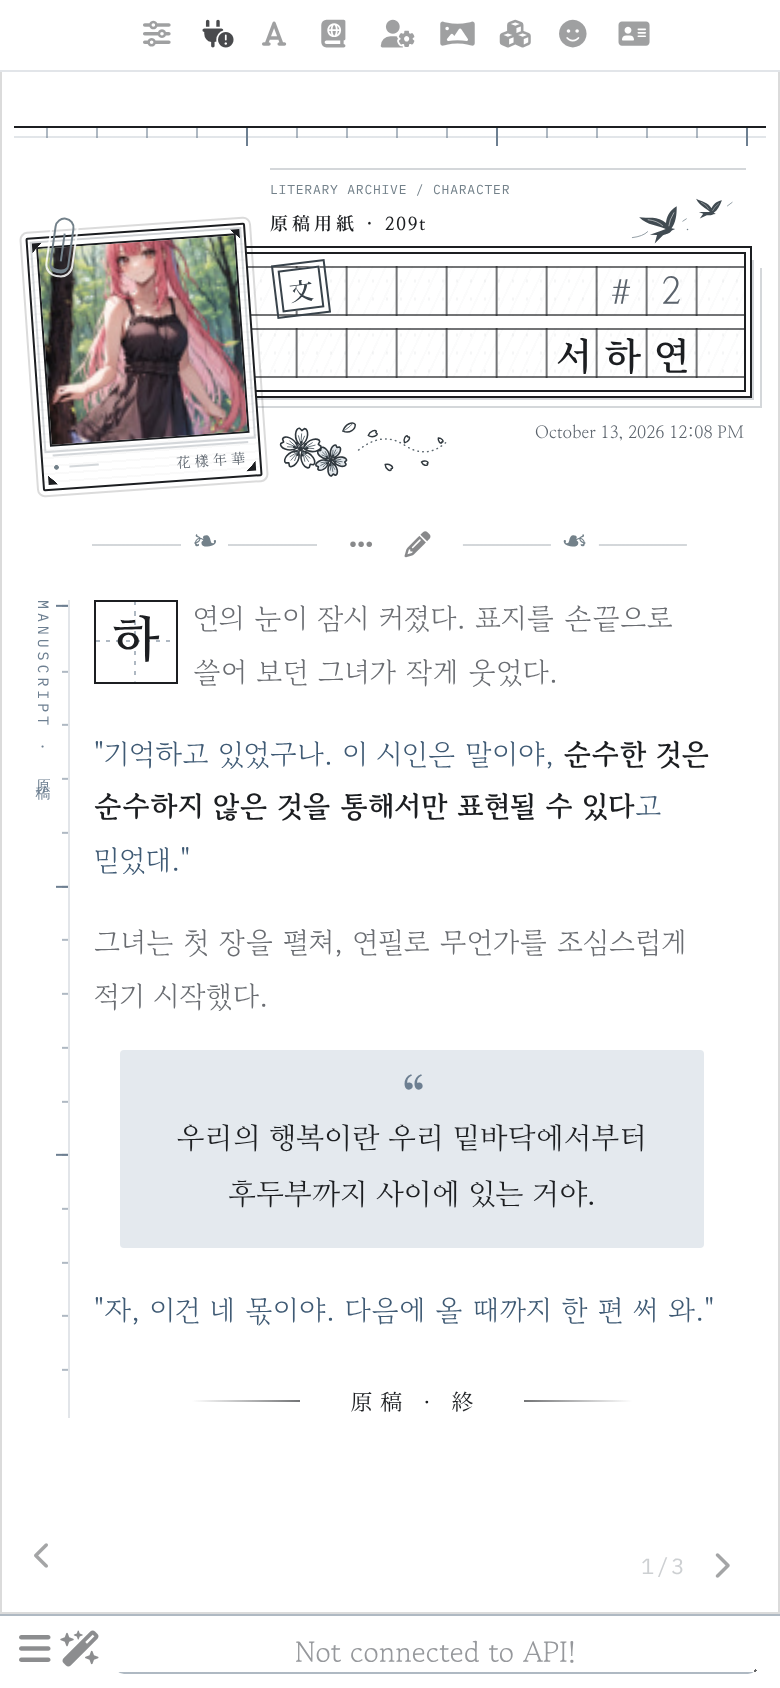
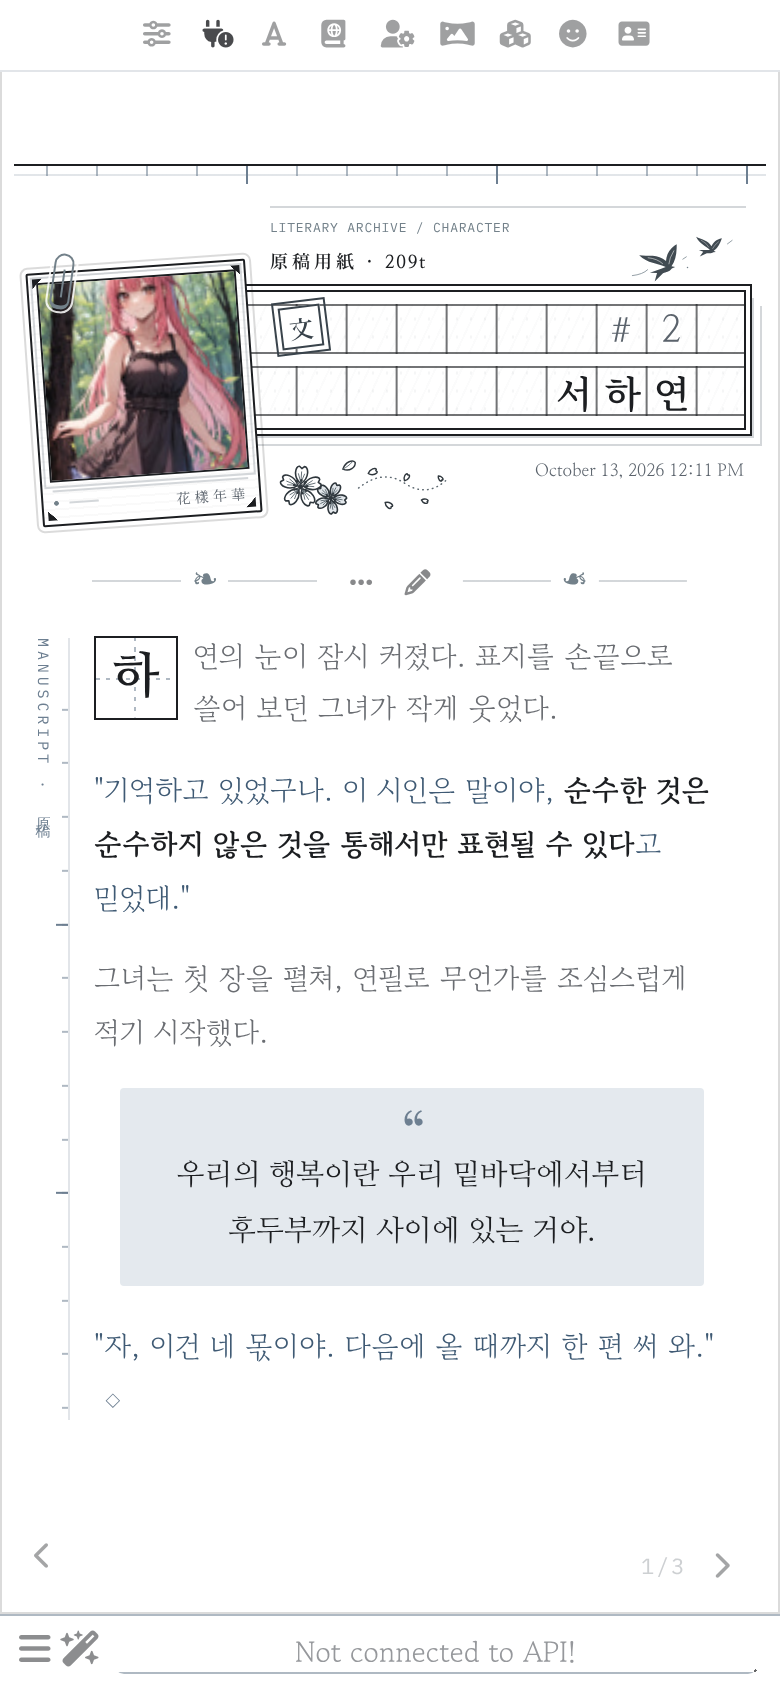
Wongoji 1.0.21: back to the end diamond; more room around reasoning
Remove the 原稿 · 終 colophon and restore the ◇ end mark. The reasoning
note gets 14px above and 18px below so it no longer crowds the
message button row.

Claude-Session: https://claude.ai/code/session_01VxNZVdN99GR1yFwUVAN4mT

diff --git a/src/wongoji.css b/src/wongoji.css
@@ -2466,3 +2466,19 @@ body.hideChatAvatars #chat .mes .ch_name > .flex-container > .flex-container > .
 @media (max-width: 600px) {
     #chat .mes .mes_text::after { --wg-colo-len: 54px; }
 }
+
+/* ======================================================================
+   Wongoji 1.0.21 — 판권면 대신 글 끝 마름모로 되돌림, 추론 블록 간격
+   ====================================================================== */
+#chat .mes .mes_text::after {
+    content: none;
+    display: none;
+}
+#chat .mes .mes_text > p:last-child::after {
+    content: var(--wg-endmark);
+}
+/* 추론(註)을 수정 버튼 줄에서 띄웁니다 */
+#chat .mes .mes_reasoning_details {
+    margin-top: 14px;
+    margin-bottom: 18px;
+}

diff --git a/README.md b/README.md
@@ -22,7 +22,7 @@ SillyTavern UI 테마입니다. 흰 바탕과 먹, 청회색으로 인쇄된 원
 - **본문**: 가독성을 위해 틀과 칸 배경 없이 종이 위에 바로 씁니다.
   - 첫 문단의 첫 글자는 십자 안내선이 그어진 원고지 한 칸에 두 줄 높이로 크게 씁니다.
   - 본문 옆 책등에는 세로 표기(`MANUSCRIPT · 原稿`, `REPLY · 答書`)와 함께 줄마다 짧은 눈금, 다섯 줄마다 긴 눈금이 새겨집니다.
-  - 글 끝에는 책의 판권면처럼 `原稿 · 終`(유저는 `答書 · 終`)이 양옆 가는 선과 함께 작게 찍힙니다.
+  - 글 끝에는 마침 기호 `◇`가 찍힙니다.
 - **문장 표현**: 대사는 청회색, 본문은 먹색, 지문과 속마음은 옅은 먹색입니다. 인용(`>`)은 책 뒤표지의 제사(題辭)처럼 큰 따옴표가 달린 가운데 정렬 청회색 상자로, 장면 전환(`---`)은 `＊`로 보입니다.
 - **색**: 화면 요소는 흑백과 청회색만 씁니다(아바타 사진은 원래 색 그대로). 유저 원고지는 아주 옅은 청회색이고, 그림자와 블러는 없습니다.
 - **패널**: 캐릭터 목록, 프롬프트 관리자, 월드 인포, 확장, 페르소나, 배경 등은 흰 종이에 옅은 회색 선과 바탕만 씁니다. 글자와 이미지의 그림자는 모두 없앴고, 꺼진 프롬프트도 회색 글씨로 읽힙니다.
@@ -70,7 +70,7 @@ SillyTavern → 사용자 설정 → **Custom CSS** 맨 위에서 아래 두 줄
 | `--wg-cell`, `--wg-gap` | 머리 원고지 칸 크기, 줄 사이 틈. 이름·날짜 글자 크기는 칸에 맞춰 자동으로 정해집니다 |
 | `--wg-text`, `--wg-lh`, `--wg-measure` | 본문 글자 크기, 행간, 좌우 여백. 설정의 Font Scale도 함께 반영됩니다 |
 | `--wg-spine-char`, `--wg-spine-user` | 책등 세로 표기 |
-| `--wg-colophon` | 글 끝 판권면 표기 (기본 `原稿 · 終`) |
+| `--wg-endmark` | 글 끝 기호 (기본 `◇`) |
 | `--topBarIconSize`, `--bottomFormIconSize` | 상단 메뉴 · 입력창 아이콘 크기 |
 
 ## 개발
